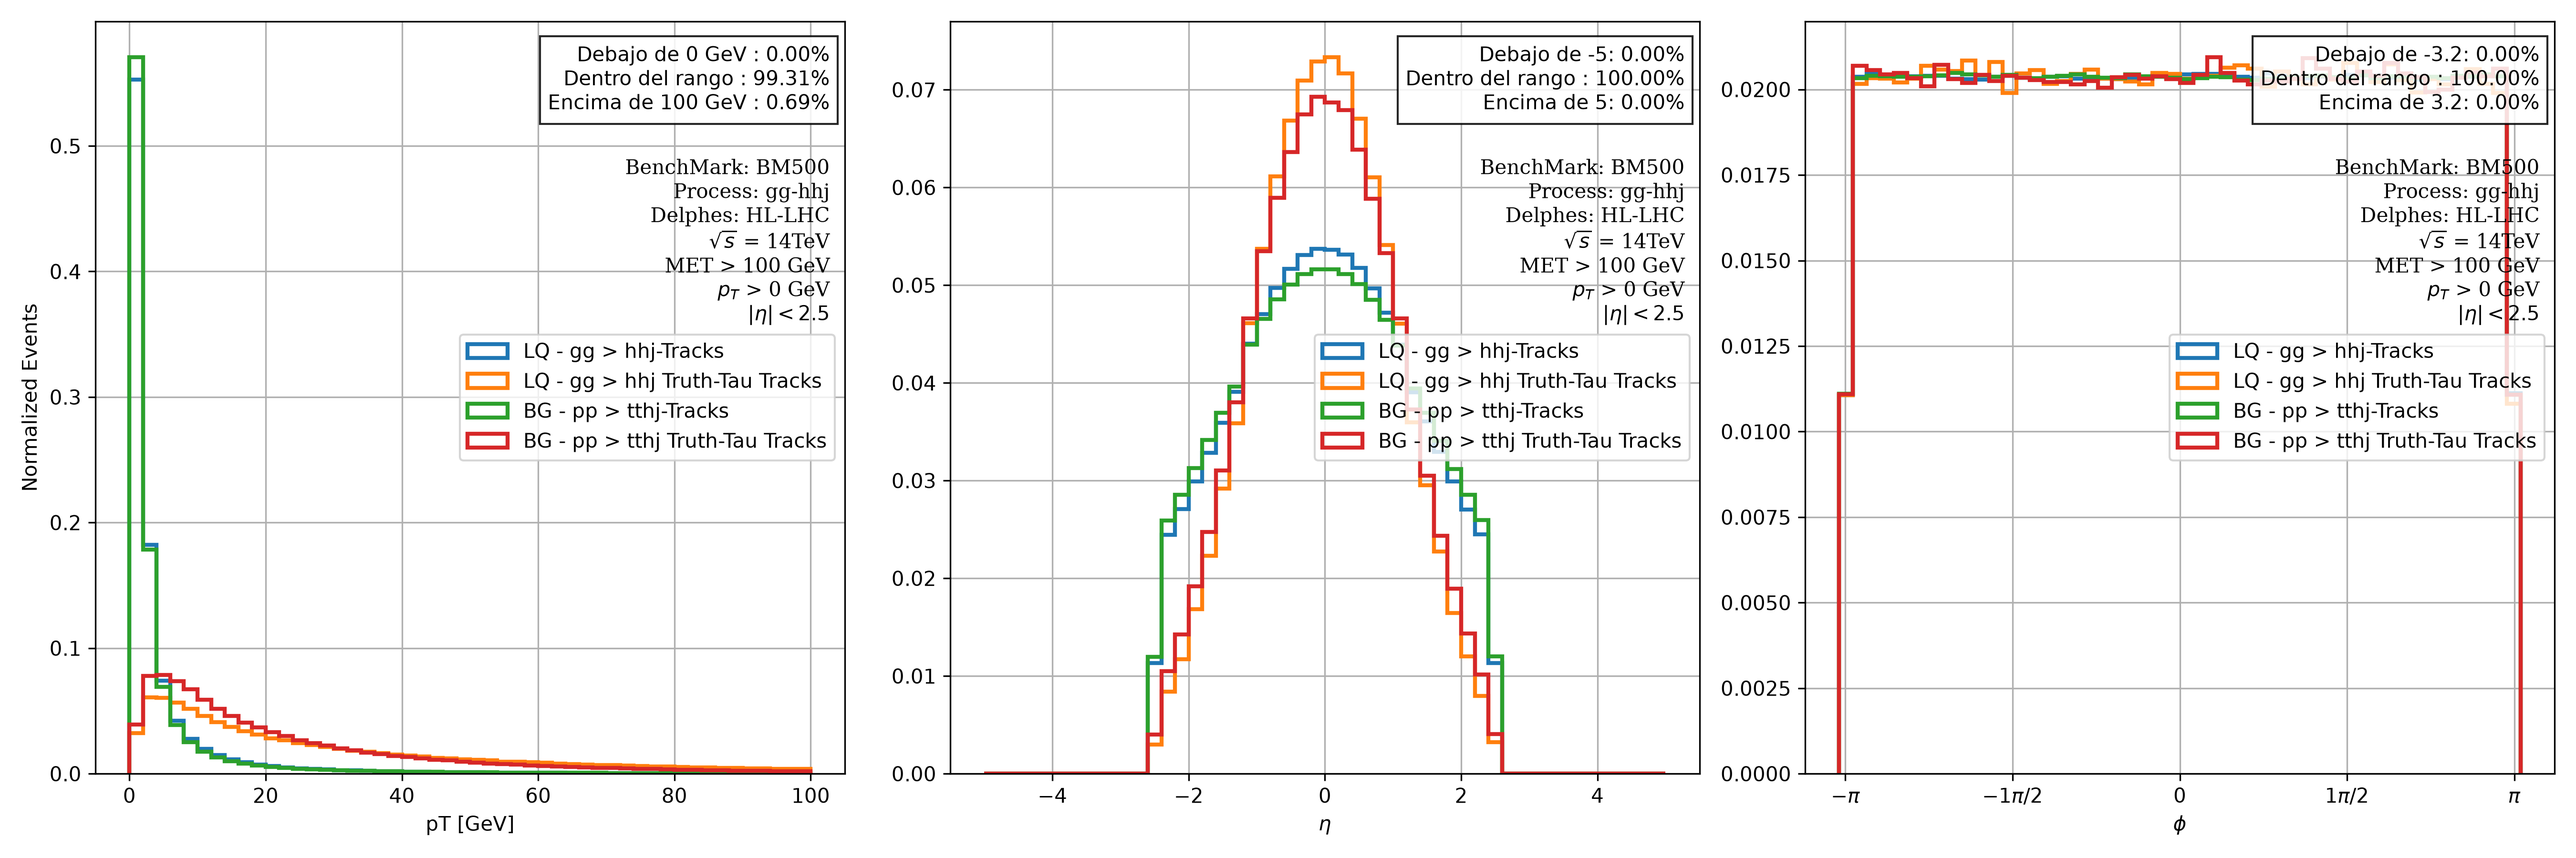
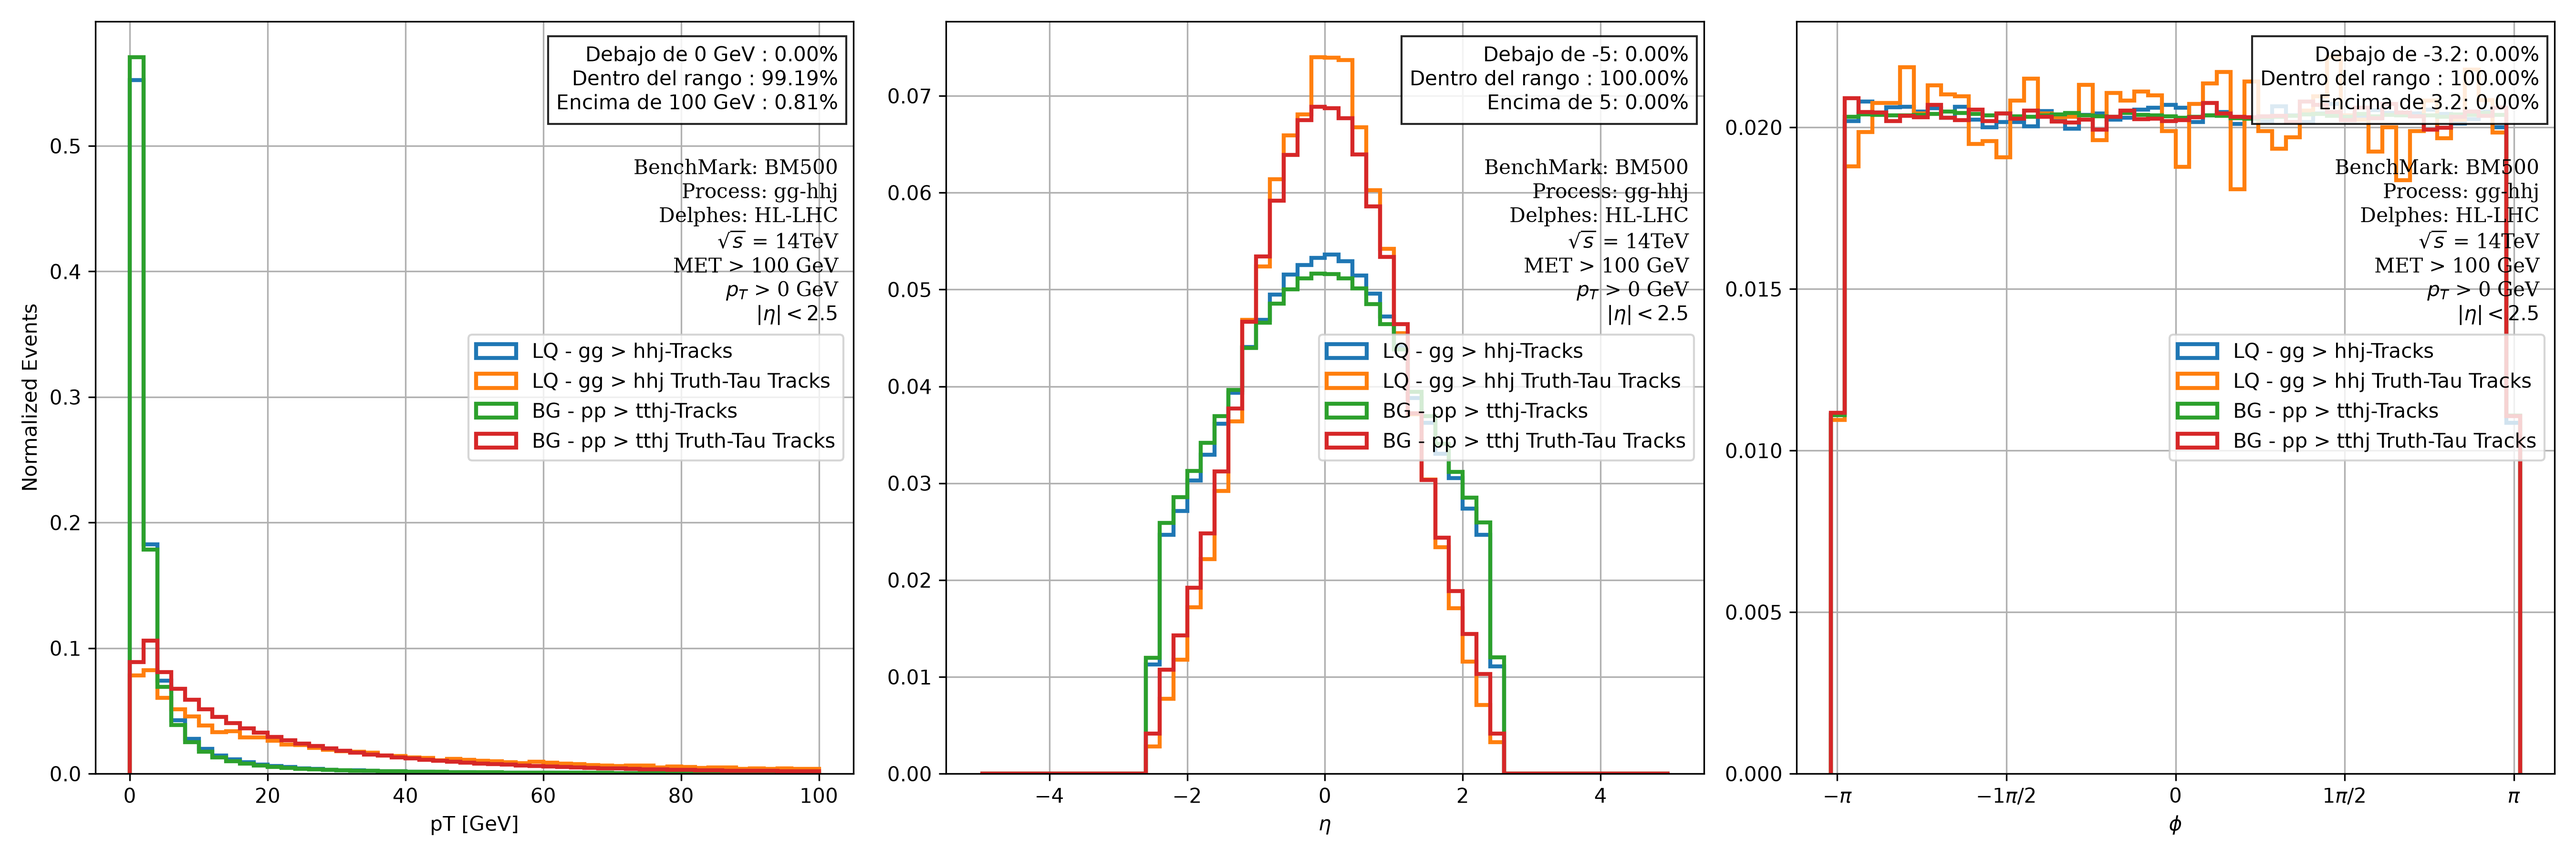
results

diff --git a/RecAnalysis/ROOT_analyzer.py b/RecAnalysis/ROOT_analyzer.py
@@ -22,7 +22,7 @@ saving_path = '/home/gbarco/DiHiggsProject/RecAnalysis/'
 
 # MET Selection
 
-MET_LowerBond = 0    # GeV
+MET_LowerBond = 100    # GeV
 
 # Jets preselection cuts
 Pre_PT_jet = 20       # GeV
@@ -32,7 +32,7 @@ Pre_eta_jet = 2.5
 Pre_PT_track = 0      # GeV
 Pre_eta_track = 2.5
 
-Delphes = "Prueba3M"
+Delphes = "HL-LHC"
 Energy_label = "14TeV"
 BenchMark = "BM500"
 process = "gg-hhj"
@@ -45,8 +45,8 @@ process = "gg-hhj"
 
 rutas = {
    "LQ - gg > hhj": "/mnt/R5/gbarco/BM500_gghhj_1800k/ROOTs/output_ggHH_bbtata_BP1_81_0_delphes_events.root",
-   "Nueva simu":  "/mnt/R5/gbarco/BM500_gghhj-3M/ROOTs/output_gg_hhj-3M_116_29_delphes_events.root",
-#   "BG - pp > tthj": "/mnt/R5/gbarco/pp_tthj_1800k/ROOTs/output_pp_tthj_h-tata_1800k_104_*_delphes_events.root", 
+#   "Nueva simu":  "/mnt/R5/gbarco/BM500_gghhj-3M/ROOTs/output_gg_hhj-3M_116_29_delphes_events.root",
+   "BG - pp > tthj": "/mnt/R5/gbarco/pp_tthj_1800k/ROOTs/output_pp_tthj_h-tata_1800k_104_*_delphes_events.root", 
 }
 
 # ============================================================================
